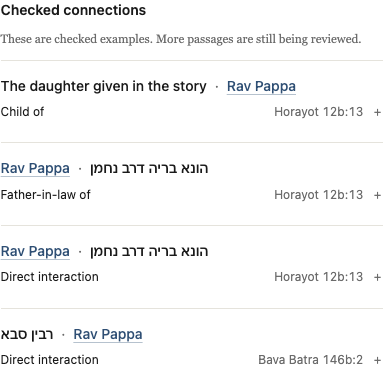
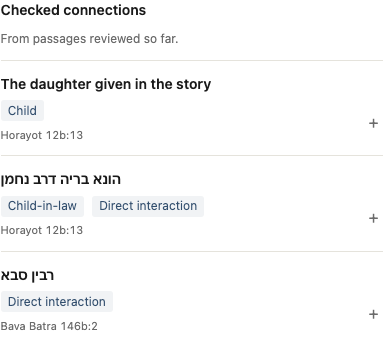
Group connections by person and clear the reading footer

diff --git a/packages/talmud/src/client/CheckedConnections.tsx b/packages/talmud/src/client/CheckedConnections.tsx
@@ -1,5 +1,5 @@
 import { SectionHeading, StatusMessage } from '@corpus/ui/Study';
-import { createEffect, createResource, createSignal, For, Show } from 'solid-js';
+import { createEffect, createMemo, createResource, createSignal, For, Show } from 'solid-js';
 import type { CheckedConnection, CheckedGraph, CheckedNode } from '../lib/sage-graph/types';
 import { fetchCheckedGraph, type GraphQuery } from './checkedGraph';
 import { lang, t } from './i18n';
@@ -60,6 +60,22 @@ export function CheckedConnections(props: {
     const key = row.relation ?? row.type;
     return t(`checked.relation.${key}`);
   };
+  const subject = () => (props.query && 'person' in props.query ? props.query.person : undefined);
+  const groups = createMemo(() => {
+    const grouped = new Map<string, { a: string; b: string; rows: CheckedConnection[] }>();
+    for (const row of data()?.connections ?? []) {
+      const key = JSON.stringify([row.a, row.b].sort());
+      const group = grouped.get(key);
+      if (group) group.rows.push(row);
+      else grouped.set(key, { a: row.a, b: row.b, rows: [row] });
+    }
+    return [...grouped.values()];
+  });
+  const shortRelation = (row: CheckedConnection) => {
+    if (!subject() || !row.relation) return relation(row);
+    const role = row.a === subject() ? 'incoming' : 'outgoing';
+    return t(`checked.role.${row.relation}.${role}`);
+  };
   const openPassage = (ref: string) => {
     const match = ref.match(/^(.*?) (\d+[ab]):(\d+)$/);
     return match
@@ -83,81 +99,107 @@ export function CheckedConnections(props: {
         <SectionHeading title={t('checked.title')} />
         <p class="checked-scope">{t('checked.scope')}</p>
         <ul class="checked-map">
-          <For each={data()?.connections}>
-            {(row) => (
+          <For each={groups()}>
+            {(group) => (
               <li class="checked-connection">
                 <div class="checked-pair">
-                  <Person id={row.a} />
-                  <span class="checked-separator" aria-hidden="true">
-                    ·
-                  </span>
-                  <Person id={row.b} />
+                  <Show
+                    when={subject() && (group.a === subject() || group.b === subject())}
+                    fallback={
+                      <>
+                        <Person id={group.a} />
+                        <span class="checked-separator" aria-hidden="true">
+                          ·
+                        </span>
+                        <Person id={group.b} />
+                      </>
+                    }
+                  >
+                    <Person id={group.a === subject() ? group.b : group.a} />
+                  </Show>
                 </div>
                 <details>
                   <summary>
-                    <span class="checked-kind">{relation(row)}</span>
-                    <span class="checked-source">
-                      <span dir="ltr">{row.ref}</span>
-                      <span class="checked-disclosure" aria-hidden="true" />
+                    <span class="checked-overview">
+                      <span class="checked-kinds">
+                        <For each={[...new Set(group.rows.map(shortRelation))]}>
+                          {(kind) => <span class="checked-kind">{kind}</span>}
+                        </For>
+                      </span>
+                      <span class="checked-sources">
+                        <For each={[...new Set(group.rows.map((row) => row.ref))]}>
+                          {(ref) => <span dir="ltr">{ref}</span>}
+                        </For>
+                      </span>
                     </span>
+                    <span class="checked-disclosure" aria-hidden="true" />
                   </summary>
-                  <div class="checked-evidence">
-                    <Show when={!row.historicalIdentityResolved}>
-                      <p>{t('checked.unresolved')}</p>
-                    </Show>
-                    <Show when={row.type === 'intellectual'}>
-                      <p>{t('checked.intellectual')}</p>
-                    </Show>
-                    <Show when={lang() === 'en'}>
-                      <p>{row.reason}</p>
-                    </Show>
-                    <For each={row.evidence}>
-                      {(e) => (
-                        <blockquote dir="rtl" lang="he">
-                          {e.quote}
-                        </blockquote>
-                      )}
-                    </For>
-                    <Show when={row.premiseConnectionIds?.length}>
-                      <h5>{t('checked.familySteps')}</h5>
-                      <For each={row.premiseConnectionIds}>
-                        {(id) => {
-                          const premise = () =>
-                            [...(data()?.connections ?? []), ...(data()?.supporting ?? [])].find(
-                              (r) => r.id === id,
-                            );
-                          return (
-                            <Show when={premise()}>
-                              {(p) => (
-                                <div class="checked-premise">
-                                  <p>
-                                    <Person id={p().a} /> · {relation(p())} · <Person id={p().b} />
-                                  </p>
-                                  <For each={p().evidence}>
-                                    {(e) => (
-                                      <blockquote dir="rtl" lang="he">
-                                        {e.quote}
-                                      </blockquote>
-                                    )}
-                                  </For>
-                                </div>
-                              )}
-                            </Show>
-                          );
-                        }}
-                      </For>
-                    </Show>
-                    <div class="checked-source-links">
-                      <a href={openPassage(row.ref) ?? undefined}>{t('checked.openPassage')}</a>
-                      <Show when={sefariaUrl(row.ref)}>
-                        {(url) => (
-                          <a href={url()} target="_blank" rel="noopener noreferrer">
-                            {t('sages.pair.source')}
-                          </a>
-                        )}
-                      </Show>
-                    </div>
-                  </div>
+                  <For each={group.rows}>
+                    {(row) => (
+                      <div class="checked-evidence">
+                        <p class="checked-statement">
+                          <Person id={row.a} /> · {relation(row)} · <Person id={row.b} />
+                        </p>
+                        <Show when={!row.historicalIdentityResolved}>
+                          <p>{t('checked.unresolved')}</p>
+                        </Show>
+                        <Show when={row.type === 'intellectual'}>
+                          <p>{t('checked.intellectual')}</p>
+                        </Show>
+                        <Show when={lang() === 'en'}>
+                          <p>{row.reason}</p>
+                        </Show>
+                        <For each={row.evidence}>
+                          {(e) => (
+                            <blockquote dir="rtl" lang="he">
+                              {e.quote}
+                            </blockquote>
+                          )}
+                        </For>
+                        <Show when={row.premiseConnectionIds?.length}>
+                          <h5>{t('checked.familySteps')}</h5>
+                          <For each={row.premiseConnectionIds}>
+                            {(id) => {
+                              const premise = () =>
+                                [
+                                  ...(data()?.connections ?? []),
+                                  ...(data()?.supporting ?? []),
+                                ].find((r) => r.id === id);
+                              return (
+                                <Show when={premise()}>
+                                  {(p) => (
+                                    <div class="checked-premise">
+                                      <p>
+                                        <Person id={p().a} /> · {relation(p())} ·{' '}
+                                        <Person id={p().b} />
+                                      </p>
+                                      <For each={p().evidence}>
+                                        {(e) => (
+                                          <blockquote dir="rtl" lang="he">
+                                            {e.quote}
+                                          </blockquote>
+                                        )}
+                                      </For>
+                                    </div>
+                                  )}
+                                </Show>
+                              );
+                            }}
+                          </For>
+                        </Show>
+                        <div class="checked-source-links">
+                          <a href={openPassage(row.ref) ?? undefined}>{t('checked.openPassage')}</a>
+                          <Show when={sefariaUrl(row.ref)}>
+                            {(url) => (
+                              <a href={url()} target="_blank" rel="noopener noreferrer">
+                                {t('sages.pair.source')}
+                              </a>
+                            )}
+                          </Show>
+                        </div>
+                      </div>
+                    )}
+                  </For>
                 </details>
               </li>
             )}

diff --git a/packages/talmud/src/client/checkedConnections.css b/packages/talmud/src/client/checkedConnections.css
@@ -20,7 +20,7 @@
   margin: 0;
 }
 .checked-connection {
-  padding-block: 0.875rem;
+  padding-block: 0.75rem;
   border-block-start: 1px solid var(--line);
 }
 .checked-pair {
@@ -28,7 +28,7 @@
   gap: 0.3rem 0.5rem;
   align-items: baseline;
   flex-wrap: wrap;
-  font-weight: 500;
+  font-weight: 600;
   line-height: 1.55;
 }
 .checked-connections a {
@@ -51,12 +51,10 @@
 }
 .checked-connection summary {
   display: flex;
-  align-items: baseline;
-  justify-content: space-between;
-  flex-wrap: wrap;
-  gap: 0.25rem 0.75rem;
-  min-height: 2rem;
-  padding-block: 0.4rem 0.15rem;
+  align-items: center;
+  gap: 0.75rem;
+  min-height: 2.75rem;
+  padding-block: 0.35rem 0;
   cursor: pointer;
   list-style: none;
   color: var(--muted);
@@ -65,27 +63,34 @@
 .checked-connection summary::-webkit-details-marker {
   display: none;
 }
-.checked-kind {
-  color: var(--fg);
-}
-.checked-source {
-  display: inline-flex;
-  align-items: baseline;
-  gap: 0.5rem;
-  margin-inline-start: auto;
-  max-width: 100%;
+.checked-overview {
+  flex: 1;
   min-width: 0;
-  overflow-wrap: anywhere;
-  font-variant-numeric: tabular-nums;
 }
-.checked-connection summary:hover .checked-source,
-.checked-connection details[open] .checked-source {
-  color: var(--ink-link);
+.checked-kinds,
+.checked-sources {
+  display: flex;
+  flex-wrap: wrap;
+  gap: 0.3rem 0.5rem;
+}
+.checked-kind {
+  color: var(--ink-blue);
+  background: color-mix(in srgb, var(--ink-blue) 7%, var(--surface));
+  padding: 0.1rem 0.45rem;
+  border-radius: 3px;
+  line-height: 1.5;
+}
+.checked-sources {
+  margin-block-start: 0.35rem;
+  font-size: 0.6875rem;
+  font-variant-numeric: tabular-nums;
+  overflow-wrap: anywhere;
 }
 .checked-disclosure {
   flex-shrink: 0;
   display: inline-block;
-  width: 0.75rem;
+  width: 1.25rem;
+  font-size: 1rem;
   text-align: center;
 }
 .checked-disclosure::before {
@@ -95,7 +100,10 @@
   content: "−";
 }
 .checked-evidence {
-  padding-block: 0.5rem 0.25rem;
+  margin-block-start: 0.75rem;
+  padding: 0.75rem;
+  border-inline-start: 2px solid var(--line);
+  background: var(--surface);
   font-size: 0.8125rem;
   line-height: 1.65;
 }
@@ -135,4 +143,15 @@
   outline: 2px solid var(--accent);
   outline-offset: 3px;
   border-radius: 2px;
+}
+
+.checked-connections .checked-scope,
+.checked-connections .checked-evidence p {
+  font-family: var(--font-ui);
+}
+.checked-statement {
+  font-weight: 500;
+}
+.checked-connection summary:hover .checked-disclosure {
+  color: var(--ink-link);
 }

diff --git a/packages/talmud/src/client/DafViewer.tsx b/packages/talmud/src/client/DafViewer.tsx
@@ -4,6 +4,7 @@ import { LangToggle } from '@corpus/ui/LangToggle';
 import { PageNavigation } from '@corpus/ui/PageNavigation';
 import { ReaderHeader } from '@corpus/ui/ReaderHeader';
 import { Select } from '@corpus/ui/Select';
+import { StatusMessage } from '@corpus/ui/Study';
 import { ToolbarMenu } from '@corpus/ui/ToolbarMenu';
 import {
   createEffect,
@@ -38,7 +39,6 @@ import {
 } from './anchorMarkers';
 import { BugReport } from './BugReport';
 import { type BackgroundGroup, orderBackgroundGroups } from './backgroundGroups';
-import { CheckedConnections } from './CheckedConnections';
 import ChecksPanel from './ChecksPanel';
 import type { CommentaryComment, CommentaryWork } from './CommentaryPicker';
 import { fetchCheckedGraph } from './checkedGraph';
@@ -3647,6 +3647,15 @@ export default function DafViewer(props: DafViewerProps = {}): JSX.Element {
           {yomiLoading() ? t('header.todaysDaf.finding') : t('header.todaysDaf')}
         </Button>
       </ReaderHeader>
+      <Show when={!checkedGraph.loading && checkedGraph() === null}>
+        <StatusMessage
+          tone="error"
+          onRetry={() => void retryCheckedGraph()}
+          retryLabel={t('sages.connections.retry')}
+        >
+          {t('checked.namesError')}
+        </StatusMessage>
+      </Show>
 
       {/* No raw error strip here: pause/outage states are the AiStatusBanner's
           job, and genuine mark failures fold into the load bar's localized
@@ -3958,12 +3967,6 @@ export default function DafViewer(props: DafViewerProps = {}): JSX.Element {
               />
             </Show>
 
-            <CheckedConnections
-              query={ref()}
-              data={checkedGraph.loading ? undefined : (checkedGraph() ?? undefined)}
-              onRetry={() => void retryCheckedGraph()}
-              onPerson={(slug) => void openRabbiSlug(slug)}
-            />
             <BugReport tractate={tractate()} page={page()} />
 
             <footer

diff --git a/packages/talmud/src/client/i18n.ts b/packages/talmud/src/client/i18n.ts
@@ -329,8 +329,20 @@ const CATALOG = {
   'sages.review.rava': { en: 'Rava', he: 'רבא' },
   'checked.title': { en: 'Checked connections', he: 'קשרים שנבדקו' },
   'checked.scope': {
-    en: 'These are checked examples. More passages are still being reviewed.',
-    he: 'אלה דוגמאות שנבדקו. קטעים נוספים עדיין נבדקים.',
+    en: 'From passages reviewed so far.',
+    he: 'מתוך הקטעים שנבדקו עד כה.',
+  },
+  'checked.role.child_of.incoming': { en: 'Parent', he: 'הורה' },
+  'checked.role.child_of.outgoing': { en: 'Child', he: 'ילד או ילדה' },
+  'checked.role.spouse_of.incoming': { en: 'Spouse', he: 'בן או בת זוג' },
+  'checked.role.spouse_of.outgoing': { en: 'Spouse', he: 'בן או בת זוג' },
+  'checked.role.father_in_law_of.incoming': { en: 'Child-in-law', he: 'חתן או כלה' },
+  'checked.role.father_in_law_of.outgoing': { en: 'Father-in-law', he: 'חותן' },
+  'checked.role.parent_in_law_of.incoming': { en: 'Child-in-law', he: 'חתן או כלה' },
+  'checked.role.parent_in_law_of.outgoing': { en: 'Parent-in-law', he: 'הורה של בן או בת הזוג' },
+  'checked.namesError': {
+    en: 'Could not load the checked name links.',
+    he: 'לא ניתן לטעון את קישורי השמות שנבדקו.',
   },
   'checked.error': {
     en: 'Could not load the checked connections.',
